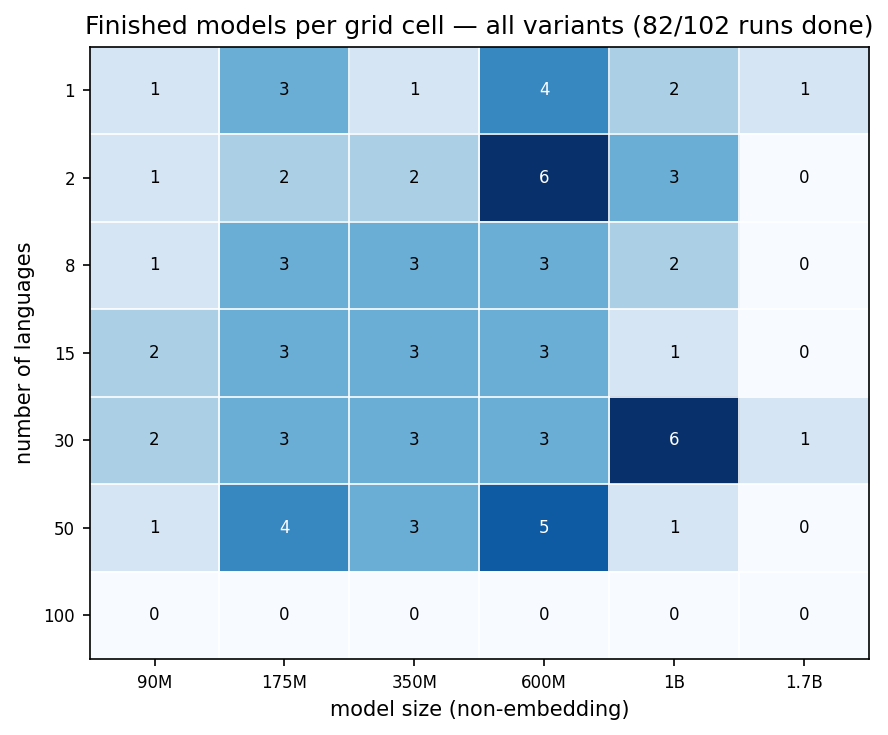
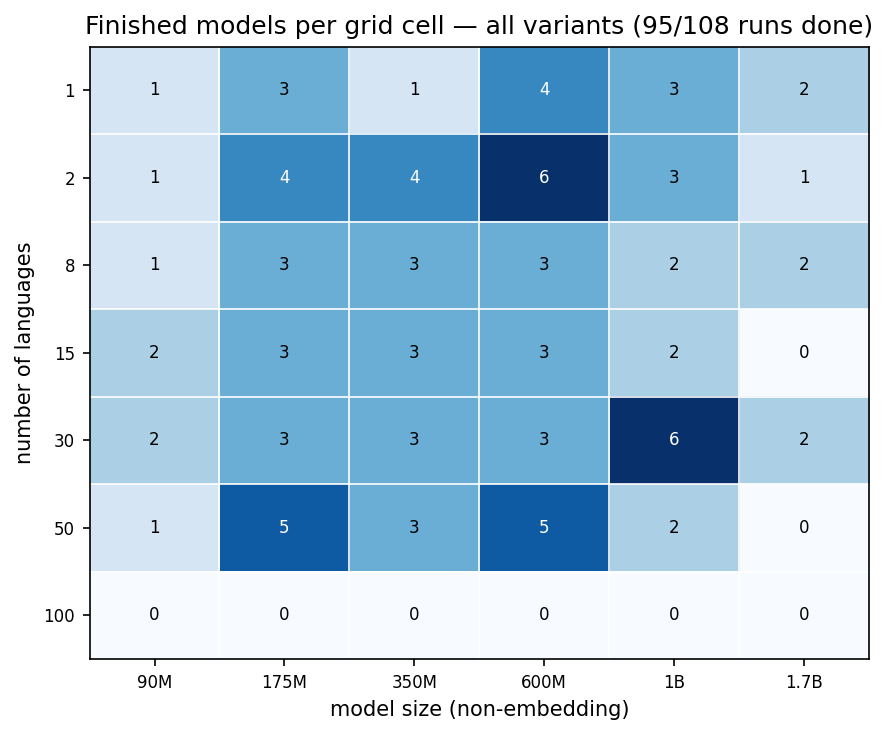
update progress

Changed region(s): [[0.6689, 0.0299, 1.0, 0.7782], [0.2432, 0.1796, 0.5473, 0.2993], [0.2432, 0.6585, 0.3953, 0.7782]]

diff --git a/plan/todos/status-09-13.md b/plan/todos/status-09-13.md
@@ -1,0 +1,99 @@
+✅ bash evals/scripts/launch_bpb.sh
+✅ python3.11 pretrain/auto_evals_cscs.py --watch 1200
+✅ cd Projects/snr-multilingual/ && bash scripts/reservation_drain.sh --max-nodes 66  --interval 1800
+
+✅ resume pretrainings:
+python3.11 pretrain/launch_trainings.py cscs --size 1.7B --dry-run
+python3.11 pretrain/launch_trainings.py cscs --scheme ZH --size 175M,350M
+python3.11 pretrain/launch_trainings.py cscs --scheme ES --size 175M,350M
+python3.11 pretrain/launch_trainings.py cscs --scheme AT3 --size 175M
+
+✅ finish 92B rebuild:
+scontrol update jobid=3378824 reservation=SD-69241-apertus-1-5-0 
+scontrol update jobid=3378823 reservation=SD-69241-apertus-1-5-0 
+scontrol update jobid=3378822 reservation=SD-69241-apertus-1-5-0 
+scontrol update jobid=3389994 reservation=SD-69241-apertus-1-5-0 
+
+✅ resume pretrainings:
+cd /iopsstor/scratch/cscs/mariagrandury/Projects/snr-multilingual/src/pretrain
+python3.11 pretrain/launch_trainings.py cscs --scheme AT3 --size 1B,1.7B
+python3.11 pretrain/launch_trainings.py cscs --size 1.7B --scheme B        # L30 only; running L8 is skipped
+python3.11 pretrain/launch_trainings.py cscs --size 1.7B --arch shallow    # L1 only; the rest are running
+scontrol update jobid=3389998 reservation=SD-69241-apertus-1-5-0 
+scontrol update jobid=3390000 reservation=SD-69241-apertus-1-5-0 
+scontrol update jobid=3390001 reservation=SD-69241-apertus-1-5-0 
+
+✅ finish 90m tests:
+python3.11 pretrain/launch_trainings.py cscs --size 90M --langs 2 --seed 1904 --ademamix-beta3-factor 0.2 --gbs 252
+scontrol update jobid=3390002 reservation=SD-69241-apertus-1-5-0 
+
+✅ start training of 1.7B L15 and L50 with new data mixture:
+python3.11 pretrain/launch_trainings.py cscs --size 1.7B --dry-run
+python3.11 pretrain/launch_trainings.py cscs --size 1.7B --scheme B 
+python3.11 pretrain/launch_trainings.py cscs --size 1.7B --arch shallow
+python3.11 pretrain/launch_trainings.py cscs --size 1.7B --scheme B --arch shallow
+7 models * 21 nodes = 147
+cd Projects/snr-multilingual/ && bash scripts/reservation_drain.sh --max-nodes 150  --interval 1800
+
+eval --all-languages for all deep models:
+✅ implement change
+✅ python3.11 pretrain/auto_evals_cscs.py --watch 1200
+✅ squeue --me -h -o '%i|%j' | awk -F'|' '$2 ~ /90M/ {print $1}' | xargs -r scancel
+
+✅ python3.11 pretrain/ladder_report.py --plot --publish --push-hf --push-git
+
+- ✅ resume 90M config comparison runs (4x)
+- ✅ resume 1.7B models
+- ✅ resume building AT3 data mixture
+- ✅ resume building L15 and L50 92B data mixtures
+- ✅ resume AT3 models
+- calculate absolute BPB (see details below)
+- Reeval after worker implementation
+- Add language-specific tasks
+- Change eval QA format
+- Add INCLUDE v2
+- Switch or drop LAMBADA-MT
+- Get the changes from pretrain-eval-azure in local branch (pull --rebase)
+- Implement flops params?
+- Write methodology
+- Consider models needed language interference study
+
+aromanou:
+- ✅ access to aromanou's logs
+- launch pretraining of 1B shallow models
+- launch pretraining of <=1B low-resource experiment models
+
+# 90M config
+
+cd /iopsstor/scratch/cscs/mariagrandury/Projects/snr-multilingual
+RUNS=/iopsstor/scratch/cscs/mariagrandury/data-mix-small/Megatron-LM/logs/Meg-Runs/msnr
+PLANS=/iopsstor/scratch/cscs/mariagrandury/data-mix-small/Megatron-LM/logs/conversion-plans
+export HF_TOKENIZER=swiss-ai/Apertus-70B-2509
+export STAGING_BASE=/capstor/store/cscs/swissai/infra01/msnr-hf-models
+export TMP_TORCH_BASE=/iopsstor/scratch/cscs/mariagrandury/snr-hf-checkpoints/_tmp_torch
+
+## convert: one job per run, all 20 checkpoints
+for spec in "diag-90M-L2-deep-seed1904-beta3f0.2 225" \
+            "diag-90M-L2-deep-seed1904-gbs84-tok9.29B 1350"; do
+  set -- $spec
+  echo "MODEL $1 $RUNS/$1/checkpoints $(seq -s ' ' $2 $2 $(($2 * 20)))" > $PLANS/plan-$1.txt
+  sbatch --partition=normal --time=00:45:00 --job-name=convert-snr-$1 \
+         --export=ALL,PLAN_FILE=$PLANS/plan-$1.txt src/pretrain/conversion/convert-snr.sh
+done
+
+JOBS: 3391201 3391202
+
+## BPB: starts after its conversion succeeds, scores every converted checkpoint
+for exp in diag-90M-L2-deep-seed1904-beta3f0.2 diag-90M-L2-deep-seed1904-gbs84-tok9.29B; do
+  dep=$(squeue --me -h -n convert-snr-$exp -o %i)
+  sbatch ${dep:+--dependency=afterok:$dep} --job-name=bpb-$exp \
+         src/evals/scripts/score_bpb.sbatch $exp
+done
+
+## 175M runs
+python3.11 src/pretrain/launch_trainings.py cscs --size 175M --langs 2 --seed 1904 --gbs 168
+3391171
+python3.11 src/pretrain/launch_trainings.py cscs --size 175M --langs 2 --seed 1904 --gbs 72
+3391172
+
+rerunning 175M model: <1000 node hours

diff --git a/plan/todos/status-09-12.md b/plan/todos/status-09-12.md
@@ -7,14 +7,14 @@
 ✅ cd Projects/snr-multilingual/ && bash scripts/reservation_drain.sh --max-nodes 52 --interval 1800
 
 ✅ resume 1.7B models:
-python3.11 launch_trainings.py cscs --size 1.7B                  # L2 deep
-python3.11 launch_trainings.py cscs --size 1.7B --scheme B       # L8, L30 scheme B deep
-python3.11 launch_trainings.py cscs --size 1.7B --arch shallow   # L1, L2, L8, L30 shallow
+python3.11 pretrain/launch_trainings.py cscs --size 1.7B                  # L2 deep
+python3.11 pretrain/launch_trainings.py cscs --size 1.7B --scheme B       # L8, L30 scheme B deep
+python3.11 pretrain/launch_trainings.py cscs --size 1.7B --arch shallow   # L1, L2, L8, L30 shallow
 scontrol update jobid=3377944 reservation=SD-69241-apertus-1-5-0 # L2 deep
 
 ✅ resume 1B models:
-python3.11 launch_trainings.py cscs --size 1B --langs 1 --seed 1904
-python3.11 launch_trainings.py cscs --size 1B --langs 15 --seed 1904
+python3.11 pretrain/launch_trainings.py cscs --size 1B --langs 1 --seed 1904
+python3.11 pretrain/launch_trainings.py cscs --size 1B --langs 15 --seed 1904
 
 ✅ rebuild data for 1.7B size:
 M=/capstor/store/cscs/swissai/infra01/multilingual_data_mixtures/predictivity-data
@@ -36,6 +36,8 @@ python3.11 launch_trainings.py cscs --scheme ES --size 175M,350M
 python3.11 launch_trainings.py cscs --scheme AT3 --size 175M
 python3.11 launch_trainings.py cscs --size 90M --langs 2 --seed 1904 --ademamix-beta3-factor 0.2 --gbs 252
 
+resume 1.7B models:
+✅ python3.11 pretrain/launch_trainings.py cscs --size 1.7B --arch shallow
 
 - ✅ launch 90M config comparison runs (4x)
 - ✅ mirror_eval_logs time -> 12h
@@ -53,6 +55,7 @@ python3.11 launch_trainings.py cscs --size 90M --langs 2 --seed 1904 --ademamix-
 - Write methodology
 - Consider models needed language interference study
 
+---
 
 ## 90M config comparison
 
@@ -92,13 +95,14 @@ Production scores back-to-back 4,096-token windows, so the first tokens of each 
 
 Impact: every model is scored on identical windows, so rankings and decision accuracy are unaffected. Absolute BPB is pessimistic, and more so for scripts with few bytes per token. Suggestion: if absolute values matter — for comparison with published numbers — score with a sliding window and a 512–1,024-token stride.
 
-[report]
+✅ [report]
 - set the flag to --rope-scaling-factor 8
 - fix the “trained language” flag
 - validation languages -> good catch! since we will change the final L100 list, we will have to change the validation 100 languages, how will this affect the validation rebuild and calculation of bpb scores? give me a short list of tasks to follow and what to remember when i do this (i will give this task to another session)
 - The byte-count self-check never runs in production: explain further this caveat, why is it relevant and the proposed fix
 - create a 2nd version of the artifact without the BPB implementation review section
 
+---
 
 # 1B and 1.7B training status
 
@@ -157,6 +161,8 @@ python3.11 launch_trainings.py cscs --size 1B --langs 1 --seed 1904 --dry-run
 python3.11 launch_trainings.py cscs --size 1B --langs 1 --seed 1904
 python3.11 launch_trainings.py cscs --size 1B --langs 15 --seed 1904 --dry-run
 python3.11 launch_trainings.py cscs --size 1B --langs 15 --seed 1904
+
+---
 
 ## Reservation check
 
